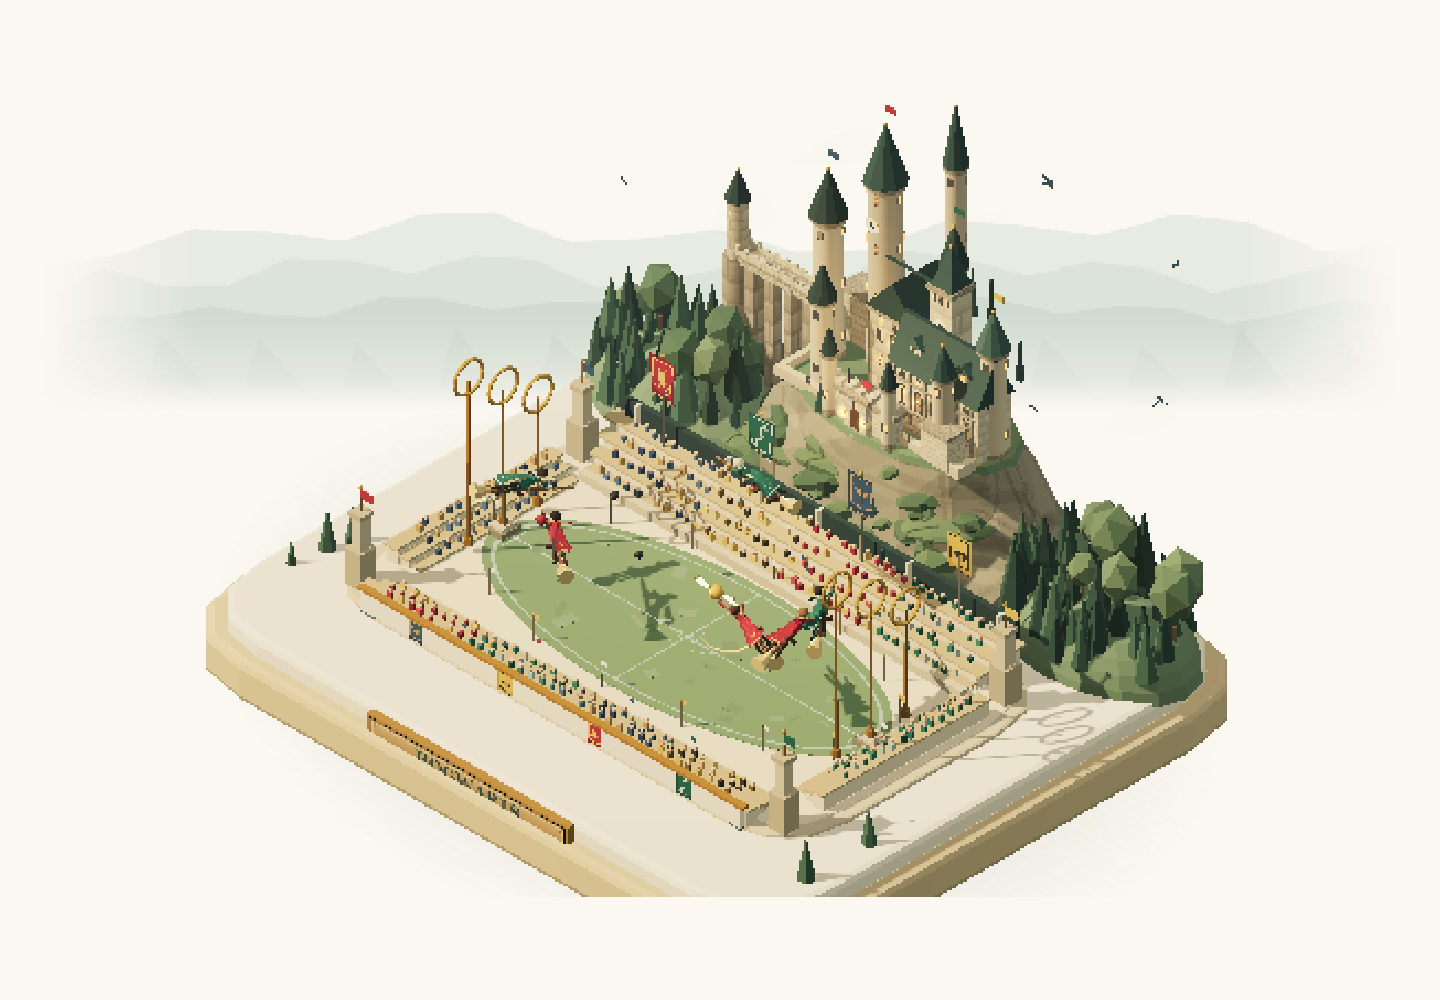
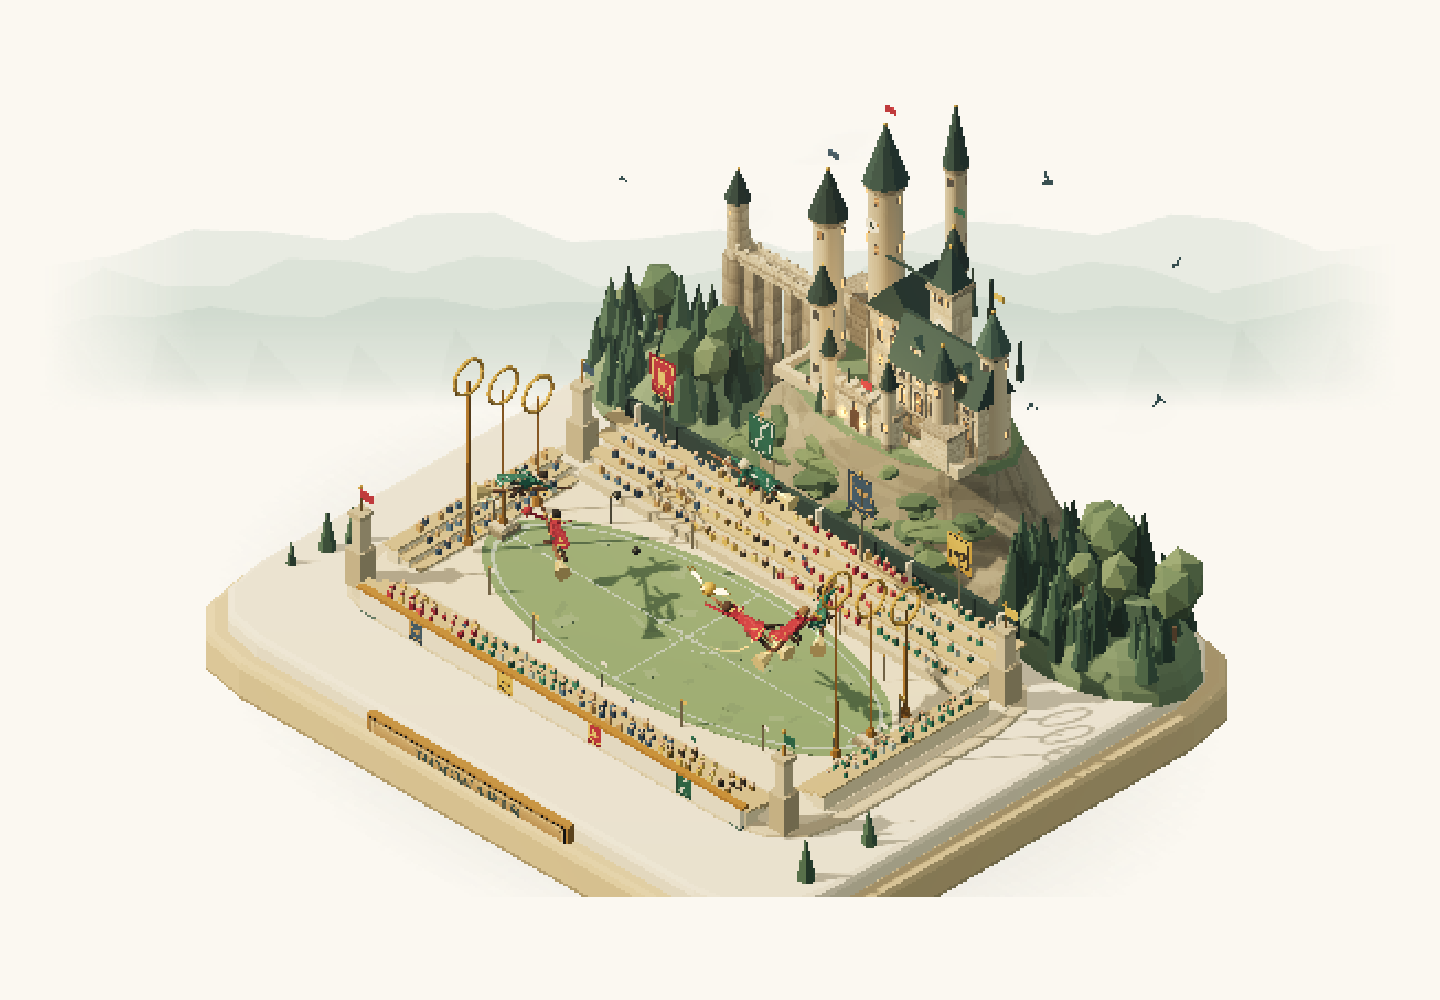
010 魁地奇立体模型更新：六名球员骑姿独立重做，封面与简介同步

diff --git a/gallery/works/quidditch-diorama.html b/gallery/works/quidditch-diorama.html
@@ -1901,73 +1901,94 @@
     addBox(model, 0.16, 0.05, 0.16, -0.2, -0.04, -0.18, leatherMat);
     addBox(model, 0.16, 0.05, 0.16, 0.2, -0.04, -0.18, leatherMat);
 
-    // legs, torso, head
+    // Pose data: every joint defaults to the neutral riding stance.
+    const P = cfg.pose || {};
+    const hip = P.hip || [0, 0.09, -0.1];
+    const shoulder = P.shoulder || [0, 0.37, 0.39];
+    const chestPos = P.chest || [0, 0.33, 0.42];
+    const headPos = P.head || [0, 0.5, 0.56];
+    const headTilt = P.headTilt || [0, 0, 0];
+    const neckPos = P.neck || [0, 0.43, 0.49];
+    const collarPos = P.collar || [0, 0.41, 0.49];
+    const crestPos = P.crest || [-0.06, 0.27, 0.55];
+    const hipL = P.hipL || [-0.1, 0.15, -0.12];
+    const hipR = P.hipR || [0.1, 0.15, -0.12];
+    const kneeL = P.kneeL || [-0.15, 0.03, -0.61];
+    const kneeR = P.kneeR || [0.15, 0.03, -0.61];
+    const footL = P.footL || [-0.18, -0.005, -0.94];
+    const footR = P.footR || [0.18, -0.005, -0.94];
+    const shoulderL = P.shoulderL || [-0.13, 0.34, 0.4];
+    const shoulderR = P.shoulderR || [0.13, 0.34, 0.4];
+    const handL = P.handL || [-0.17, 0.13, 0.84];
+    const handR = P.handR || [0.17, 0.12, 0.84];
+    const scarfPos = P.scarf || [0, 0.43, 0.5];
+    const quafflePos = P.quaffle || [0.3, 0.22, 0.7];
+
+    // legs
     const skin = skinMats[cfg.skin % skinMats.length];
     const hair = hairMats[cfg.hair % hairMats.length];
-    limbBetween(model, [-0.1, 0.15, -0.12], [-0.15, 0.03, -0.61], 0.063, trouserMat, 5);
-    limbBetween(model, [0.1, 0.15, -0.12], [0.15, 0.03, -0.61], 0.063, trouserMat, 5);
-    limbBetween(model, [-0.15, 0.03, -0.61], [-0.18, -0.005, -0.94], 0.06, bootMat, 5);
-    limbBetween(model, [0.15, 0.03, -0.61], [0.18, -0.005, -0.94], 0.06, bootMat, 5);
-    addSphere(model, 0.07, -0.19, -0.02, -0.95, bootMat, 0);
-    addSphere(model, 0.07, 0.19, -0.02, -0.95, bootMat, 0);
+    limbBetween(model, hipL, kneeL, 0.063, trouserMat, 5);
+    limbBetween(model, hipR, kneeR, 0.063, trouserMat, 5);
+    limbBetween(model, kneeL, footL, 0.06, bootMat, 5);
+    limbBetween(model, kneeR, footR, 0.06, bootMat, 5);
+    addSphere(model, 0.07, footL[0], footL[1], footL[2], bootMat, 0);
+    addSphere(model, 0.07, footR[0], footR[1], footR[2], bootMat, 0);
 
-    limbBetween(model, [0, 0.09, -0.1], [0, 0.37, 0.39], 0.145,
+    // torso
+    limbBetween(model, hip, shoulder, P.torsoRadius || 0.145,
       std(style.robe, { flatShading: true, roughness: 0.94 }), 6);
-    const chest = addSphere(model, 0.16, 0, 0.33, 0.42, std(style.robeDark, { flatShading: true }), 1);
+    const chest = addSphere(model, 0.16, chestPos[0], chestPos[1], chestPos[2],
+      std(style.robeDark, { flatShading: true }), 1);
     chest.scale.set(1.05, 0.78, 0.82);
 
     // arms
-    const handZ = cfg.role === 'keeper' ? 0.76 : 0.84;
-    limbBetween(model, [-0.13, 0.34, 0.4], [-0.17, 0.13, handZ], 0.048,
-      std(style.robe, { flatShading: true }), 5);
-    addSphere(model, 0.064, -0.17, 0.13, handZ + 0.04, gloveMat, 0);
-    if (cfg.reach) {
-      limbBetween(model, [0.13, 0.34, 0.4], [0.24, 0.42, 1.24], 0.048,
-        std(style.robe, { flatShading: true }), 5);
-      addSphere(model, 0.062, 0.24, 0.42, 1.28, gloveMat, 0);
-      // a little reaching glove highlight
-      addSphere(model, 0.045, 0.26, 0.44, 1.35, skin, 0);
-    } else {
-      limbBetween(model, [0.13, 0.34, 0.4], [0.17, 0.12, handZ], 0.048,
-        std(style.robe, { flatShading: true }), 5);
-      addSphere(model, 0.064, 0.17, 0.12, handZ + 0.04, gloveMat, 0);
-    }
+    const robeArmMat = std(style.robe, { flatShading: true });
+    limbBetween(model, shoulderL, handL, 0.048, robeArmMat, 5);
+    addSphere(model, 0.064, handL[0], handL[1], handL[2] + 0.04, gloveMat, 0);
+    limbBetween(model, shoulderR, handR, 0.048, robeArmMat, 5);
+    addSphere(model, 0.064, handR[0], handR[1], handR[2] + 0.04, gloveMat, 0);
 
-    // neck / head
-    const headZ = 0.56;
-    const headY = 0.5;
-    addCylinder(model, 0.06, 0.075, 0.16, 6, 0, 0.43, 0.49, skin);
-    addSphere(model, 0.158, 0, headY, headZ, skin, 1);
-    const hairCap = addSphere(model, 0.162, 0, headY + 0.04, headZ - 0.015, hair, 1);
+    // neck
+    addCylinder(model, 0.06, 0.075, 0.16, 6, neckPos[0], neckPos[1], neckPos[2], skin);
+
+    // head — isolated so it can tilt and turn independently
+    const headGroup = new THREE.Group();
+    headGroup.position.set(headPos[0], headPos[1], headPos[2]);
+    headGroup.rotation.set(headTilt[0], headTilt[1], headTilt[2]);
+    model.add(headGroup);
+    addSphere(headGroup, 0.158, 0, 0, 0, skin, 1);
+    const hairCap = addSphere(headGroup, 0.162, 0, 0.04, -0.015, hair, 1);
     hairCap.scale.set(1.02, 0.82, 1.02);
-    // tiny nose
-    addSphere(model, 0.04, 0, headY - 0.01, headZ + 0.15, skin, 0);
-    // house trim at the collar
-    addBox(model, 0.22, 0.055, 0.22, 0, 0.41, 0.49, std(style.trim, { flatShading: true }), 0, false);
-    // chest crest
-    addBox(model, 0.075, 0.095, 0.02, -0.06, 0.27, 0.55, goldTrimMat, 0, false);
-
+    addSphere(headGroup, 0.04, 0, -0.01, 0.15, skin, 0);
     if (cfg.team === 'gryf' && cfg.role === 'seeker') {
-      // Harry's round glasses
-      const gl = new THREE.Mesh(new THREE.TorusGeometry(0.045, 0.008, 4, 10), std(0xb08a4f, { metalness: 0.2, roughness: 0.5 }));
-      gl.position.set(-0.068, headY + 0.02, headZ + 0.148);
-      model.add(gl);
+      const gl = new THREE.Mesh(new THREE.TorusGeometry(0.045, 0.008, 4, 10),
+        std(0xb08a4f, { metalness: 0.2, roughness: 0.5 }));
+      gl.position.set(-0.068, 0.02, 0.148);
+      headGroup.add(gl);
       const gr = gl.clone();
       gr.position.x = 0.068;
-      model.add(gr);
-      addBox(model, 0.055, 0.01, 0.01, 0, headY + 0.02, headZ + 0.15, std(C.goldDeep, { flatShading: true }), 0, false);
+      headGroup.add(gr);
+      addBox(headGroup, 0.055, 0.01, 0.01, 0, 0.02, 0.15,
+        std(C.goldDeep, { flatShading: true }), 0, false);
     }
     if (cfg.team === 'slyth' && cfg.role === 'seeker') {
-      // Draco: a pale sweep of hair
       hairCap.scale.set(1.08, 0.9, 1.08);
     }
+
+    // house trim at the collar and chest crest
+    addBox(model, 0.22, 0.055, 0.22, collarPos[0], collarPos[1], collarPos[2],
+      std(style.trim, { flatShading: true }), 0, false);
+    addBox(model, 0.075, 0.095, 0.02, crestPos[0], crestPos[1], crestPos[2], goldTrimMat, 0, false);
+
     if (cfg.role === 'keeper') {
-      addBox(model, 0.1, 0.16, 0.1, -0.18, 0.13, handZ, std(style.trim, { flatShading: true }), 0, false);
-      addBox(model, 0.1, 0.16, 0.1, 0.18, 0.13, handZ, std(style.trim, { flatShading: true }), 0, false);
+      addBox(model, 0.12, 0.17, 0.11, handL[0], handL[1], handL[2],
+        std(style.trim, { flatShading: true }), 0, false);
+      addBox(model, 0.12, 0.17, 0.11, handR[0], handR[1], handR[2],
+        std(style.trim, { flatShading: true }), 0, false);
     }
     if (cfg.role === 'beater') {
       const bat = new THREE.Group();
-      bat.position.set(0.25, 0.24, 0.52);
+      bat.position.set(handR[0], handR[1], handR[2]);
       bat.rotation.z = -0.55;
       bat.rotation.x = 0.4;
       model.add(bat);
@@ -1975,10 +1996,10 @@
       addCylinder(bat, 0.085, 0.055, 0.2, 6, 0, 0.57, 0.02, batMat).rotation.x = 0.2;
     }
     if (cfg.quaffle) {
-      const q = addSphere(model, 0.17, 0.3, 0.22, 0.7, quaffleMat, 1);
+      addSphere(model, 0.17, quafflePos[0], quafflePos[1], quafflePos[2], quaffleMat, 1);
       const band = new THREE.Mesh(new THREE.TorusGeometry(0.172, 0.016, 4, 12), quaffleBand);
       band.rotation.x = Math.PI / 2;
-      band.position.set(0.3, 0.22, 0.7);
+      band.position.set(quafflePos[0], quafflePos[1], quafflePos[2]);
       model.add(band);
       const band2 = band.clone();
       band2.rotation.set(0, Math.PI / 2, 0);
@@ -1988,7 +2009,12 @@
     mergeStaticMeshes(model);
 
     const cape = makeCape(model, style, cfg.phase);
+    if (P.capeY !== undefined || P.capeZ !== undefined) {
+      cape.mesh.position.y = (P.capeY === undefined ? 0.45 : P.capeY) - 0.45;
+      cape.mesh.position.z = (P.capeZ === undefined ? 0.12 : P.capeZ) - 0.12;
+    }
     const scarf = makeScarf(model, style, cfg.phase + 1.2);
+    if (P.scarf) scarf.root.position.set(scarfPos[0], scarfPos[1], scarfPos[2]);
 
     return {
       root: root, bank: bank, model: model, cape: cape, scarf: scarf,
@@ -2007,13 +2033,83 @@
     return out;
   }
 
+  const POSES = {
+    harry: {
+      hip: [0, 0.06, 0.01], shoulder: [0, 0.27, 0.52], chest: [0, 0.23, 0.57],
+      head: [0, 0.36, 0.72], headTilt: [0.05, 0.05, 0.02], neck: [0, 0.3, 0.62],
+      collar: [0, 0.25, 0.57], crest: [-0.05, 0.15, 0.63],
+      hipL: [-0.1, 0.1, -0.01], hipR: [0.1, 0.1, -0.01],
+      shoulderL: [-0.14, 0.26, 0.5], shoulderR: [0.14, 0.26, 0.5],
+      handL: [-0.18, 0.09, 0.88], handR: [0.3, 0.44, 1.28],
+      kneeL: [-0.22, 0.16, -0.5], footL: [-0.28, 0.21, -0.92],
+      kneeR: [0.16, 0.01, -0.67], footR: [0.21, -0.03, -1.05],
+      scarf: [0, 0.34, 0.66], capeY: 0.36, capeZ: 0.3
+    },
+    katie: {
+      hip: [0, 0.1, -0.1], shoulder: [0, 0.41, 0.3], chest: [0, 0.37, 0.34],
+      head: [0, 0.56, 0.46], headTilt: [-0.02, 0.4, 0.02], neck: [0, 0.47, 0.37],
+      collar: [0, 0.43, 0.35], crest: [-0.05, 0.29, 0.42],
+      hipL: [-0.1, 0.14, -0.12], hipR: [0.1, 0.14, -0.12],
+      shoulderL: [-0.13, 0.39, 0.28], shoulderR: [0.2, 0.4, 0.32],
+      handL: [-0.17, 0.13, 0.85], handR: [0.7, 0.34, 0.55],
+      kneeL: [-0.18, 0.06, -0.58], footL: [-0.2, 0.01, -0.93],
+      kneeR: [0.17, 0.28, -0.48], footR: [0.3, 0.38, -0.66],
+      scarf: [0, 0.48, 0.39], capeY: 0.5, capeZ: 0.12,
+      quaffle: [0.9, 0.5, 0.45]
+    },
+    wood: {
+      hip: [0, 0.12, -0.1], shoulder: [0, 0.38, 0.42], chest: [0, 0.33, 0.46],
+      head: [0, 0.48, 0.54], headTilt: [-0.05, -0.08, 0], neck: [0, 0.4, 0.48],
+      collar: [0, 0.37, 0.47], crest: [-0.05, 0.27, 0.52],
+      hipL: [-0.11, 0.16, -0.08], hipR: [0.11, 0.16, -0.08],
+      shoulderL: [-0.22, 0.36, 0.4], shoulderR: [0.22, 0.36, 0.4],
+      handL: [-0.28, 0.18, 0.82], handR: [0.28, 0.18, 0.82],
+      kneeL: [-0.4, 0.27, -0.2], footL: [-0.55, 0.34, -0.48],
+      kneeR: [0.4, 0.27, -0.2], footR: [0.55, 0.34, -0.48],
+      scarf: [0, 0.43, 0.51], capeY: 0.44, capeZ: 0.18
+    },
+    draco: {
+      hip: [0, 0.08, -0.1], shoulder: [0, 0.5, 0.08], chest: [0, 0.44, 0.1],
+      head: [0, 0.67, 0.1], headTilt: [-0.12, -0.3, -0.05], neck: [0, 0.57, 0.09],
+      collar: [0, 0.53, 0.08], crest: [-0.05, 0.37, 0.16],
+      hipL: [-0.1, 0.12, -0.12], hipR: [0.1, 0.12, -0.12],
+      shoulderL: [-0.13, 0.48, 0.06], shoulderR: [0.13, 0.48, 0.06],
+      handL: [-0.17, 0.12, 0.83], handR: [0.64, 0.5, -0.12],
+      kneeL: [-0.16, 0.08, -0.6], footL: [-0.2, 0.02, -0.96],
+      kneeR: [0.16, 0.3, -0.4], footR: [0.28, 0.4, -0.55],
+      scarf: [0, 0.58, 0.13], capeY: 0.56, capeZ: 0.0
+    },
+    bletchley: {
+      hip: [0.03, 0.1, -0.1], shoulder: [-0.12, 0.38, 0.28], chest: [-0.08, 0.34, 0.32],
+      head: [-0.2, 0.52, 0.43], headTilt: [0.02, 0.28, 0.06], neck: [-0.16, 0.44, 0.36],
+      collar: [-0.12, 0.4, 0.35], crest: [-0.17, 0.25, 0.42],
+      hipL: [-0.08, 0.14, -0.12], hipR: [0.12, 0.14, -0.12],
+      shoulderL: [-0.24, 0.36, 0.26], shoulderR: [0.03, 0.36, 0.3],
+      handL: [-0.3, 0.12, 0.82], handR: [0.5, 0.45, 0.05],
+      kneeL: [-0.4, 0.12, -0.47], footL: [-0.56, 0.08, -0.7],
+      kneeR: [0.02, 0.24, -0.45], footR: [0.08, 0.34, -0.7],
+      scarf: [-0.13, 0.45, 0.4], capeY: 0.45, capeZ: 0.1
+    },
+    flint: {
+      hip: [0, 0.08, -0.18], shoulder: [0, 0.21, 0.52], chest: [0, 0.16, 0.57],
+      head: [0, 0.3, 0.7], headTilt: [0.05, 0, 0], neck: [0, 0.24, 0.62],
+      collar: [0, 0.21, 0.6], crest: [-0.05, 0.1, 0.66],
+      hipL: [-0.13, 0.12, -0.16], hipR: [0.13, 0.12, -0.16],
+      shoulderL: [-0.2, 0.19, 0.5], shoulderR: [0.2, 0.19, 0.5],
+      handL: [-0.22, 0.08, 0.86], handR: [0.22, 0.08, 0.86],
+      kneeL: [-0.28, 0.1, -0.35], footL: [-0.33, 0.18, -0.64],
+      kneeR: [0.28, 0.1, -0.35], footR: [0.33, 0.18, -0.64],
+      scarf: [0, 0.26, 0.65], capeY: 0.26, capeZ: 0.27
+    }
+  };
+
   const playerDefs = [
-    { name: 'Harry', team: 'gryf', role: 'seeker', special: 'harry', skin: 0, hair: 1, phase: 0.3, reach: true },
-    { name: 'Wood', team: 'gryf', role: 'keeper', cx: 7.9, cz: 0.05, rx: 0.86, rz: 2.25, baseY: 7.1, amp: 0.26, speed: 0.55, dir: 1, phase: 0.4, wob: 0.1, skin: 1, hair: 3 },
-    { name: 'Katie', team: 'gryf', role: 'chaser', cx: -0.1, cz: 0.25, rx: 6.8, rz: 3.32, baseY: 6.35, amp: 0.52, speed: 0.51, dir: 1, phase: 0.75, wob: 0.25, skin: 1, hair: 2, quaffle: true },
-    { name: 'Draco', team: 'slyth', role: 'seeker', cx: 1.8, cz: 0.2, rx: 4.8, rz: 2.6, baseY: 9.8, amp: 0.58, speed: 0.72, dir: -1, phase: 3.1, wob: 0.24, skin: 1, hair: 4 },
-    { name: 'Bletchley', team: 'slyth', role: 'keeper', cx: -7.9, cz: 0.05, rx: 0.86, rz: 2.15, baseY: 7.05, amp: 0.3, speed: 0.49, dir: -1, phase: 2.2, wob: 0.1, skin: 0, hair: 0 },
-    { name: 'Flint', team: 'slyth', role: 'chaser', cx: 0.6, cz: 0.1, rx: 6.5, rz: 3.1, baseY: 6.75, amp: 0.42, speed: 0.52, dir: -1, phase: 1.45, wob: 0.22, skin: 2, hair: 0 }
+    { name: 'Harry', team: 'gryf', role: 'seeker', special: 'harry', skin: 0, hair: 1, phase: 0.3, pose: POSES.harry },
+    { name: 'Wood', team: 'gryf', role: 'keeper', cx: 7.9, cz: 0.05, rx: 0.86, rz: 2.25, baseY: 7.1, amp: 0.26, speed: 0.55, dir: 1, phase: 0.4, wob: 0.1, skin: 1, hair: 3, pose: POSES.wood },
+    { name: 'Katie', team: 'gryf', role: 'chaser', cx: -0.1, cz: 0.25, rx: 6.8, rz: 3.32, baseY: 6.35, amp: 0.52, speed: 0.51, dir: 1, phase: 0.75, wob: 0.25, skin: 1, hair: 2, quaffle: true, pose: POSES.katie },
+    { name: 'Draco', team: 'slyth', role: 'seeker', cx: 1.8, cz: 0.2, rx: 4.8, rz: 2.6, baseY: 9.8, amp: 0.58, speed: 0.72, dir: -1, phase: 3.1, wob: 0.24, skin: 1, hair: 4, pose: POSES.draco },
+    { name: 'Bletchley', team: 'slyth', role: 'keeper', cx: -7.9, cz: 0.05, rx: 0.86, rz: 2.15, baseY: 7.05, amp: 0.3, speed: 0.49, dir: -1, phase: 2.2, wob: 0.1, skin: 0, hair: 0, pose: POSES.bletchley },
+    { name: 'Flint', team: 'slyth', role: 'chaser', cx: 0.6, cz: 0.1, rx: 6.5, rz: 3.1, baseY: 6.75, amp: 0.42, speed: 0.52, dir: -1, phase: 1.45, wob: 0.22, skin: 2, hair: 0, pose: POSES.flint }
   ];
 
   const players = playerDefs.map(function (d) { return createPlayer(d); });

diff --git a/gallery/works.js b/gallery/works.js
@@ -203,7 +203,7 @@ window.GEN_WORKS = {
       "date": "2026-11-04",
       "pick": false,
       "prompt": "",
-      "desc": "同一道题的第二个答案：另一座会动的霍格沃茨魁地奇。城堡踞在满是针叶林的山丘上，远山一重重压着天际；环形看台坐满穿学院色的小人，金色球门环立在场边，球员追着游走球和金色飞贼满场飞。640×360 低分辨率渲染整体放大，像素颗粒是故意留着的。固定等距镜头、没有任何控件——就是一件摆在桌上、一直在动的立体模型。",
+      "desc": "同一道题的第二个答案：另一座会动的霍格沃茨魁地奇。城堡踞在满是针叶林的山丘上，远山一重重压着天际；环形看台坐满穿学院色的小人，金色球门环立在场边。六名球员各有各的骑姿——追飞贼的低伏伸手、守门员蹲守球门、击球手侧鞍平衡，压弯俯仰与披风围巾的动画一直都在动。640×360 低分辨率渲染整体放大，像素颗粒是故意留着的。固定等距镜头、没有任何控件——就是一件摆在桌上、一直在动的立体模型。",
       "tags": ["像素3D", "魁地奇", "霍格沃茨", "立体模型", "固定镜头", "动画"],
       "interactive": true
     },

diff --git a/gallery/index.html b/gallery/index.html
@@ -169,7 +169,7 @@
     if (localStorage.getItem('muse-theme') === 'light') document.body.classList.add('light');
   } catch (e) { /* 无痕模式下忽略 */ }
 </script>
-<script src="./works.js?v=21"></script>
+<script src="./works.js?v=22"></script>
 <script src="./gallery.js?v=17"></script>
 </body>
 </html>
